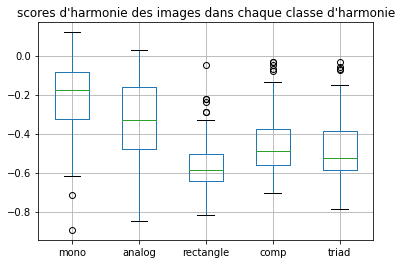
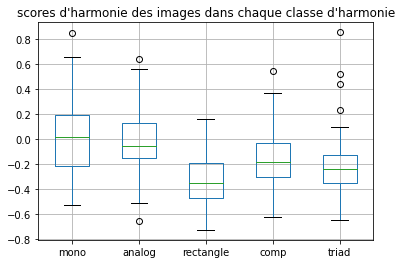
harmony types experimentation with correct harmony computation and color space conversion

Changed region(s): [[0.0299, 0.0909, 0.9254, 0.8485], [0.0299, 0.8485, 0.9254, 0.9394]]

diff --git a/split_merge/main.cpp b/split_merge/main.cpp
@@ -10,7 +10,7 @@ using namespace std;
 
 
 void compute_harmony_folder(string harmonyType,string fout){
-	string path = "../script_database/databaseOut2" + harmonyType + "/";
+	string path = "../harmonies_database/" + harmonyType + "/";
 	std::ofstream f;
     f.open(fout,std::ios::app);
 
@@ -56,8 +56,8 @@ void classify_harmony_folder(string harmonyType,string fout){
 }
 
 int main(void){
-    //compute_harmony_folder("comp" ,"harmonies_data.csv");
-    classify_harmony_folder("comp", "harmony_types.csv");
+    compute_harmony_folder("triad" ,"harmonies_data.csv");
+    //classify_harmony_folder("comp", "harmony_types.csv");
 	
 	
 }

diff --git a/harmony_solli/harmony_solli.cpp b/harmony_solli/harmony_solli.cpp
@@ -45,8 +45,6 @@ double compute_harmony(int r1, int g1, int b1, int r2, int g2, int b2){
 	double L1,C1,H1,L2,C2,H2;
 	RGB_to_LCH(r1,g1,b1,&L1,&C1,&H1);
 	RGB_to_LCH(r2,g2,b2,&L2,&C2,&H2);
-	std::cout<<"1 : "<<L1<<", "<<C1<<", "<<H1<<std::endl;
-	std::cout<<"1 : "<<L2<<", "<<C2<<", "<<H2<<std::endl;
 	return Hc(C1,H1,C2,H2) + 
 			Hl(L1,L2) + 
 			Hh(L1,C1,H1,L2,C2,H2);
